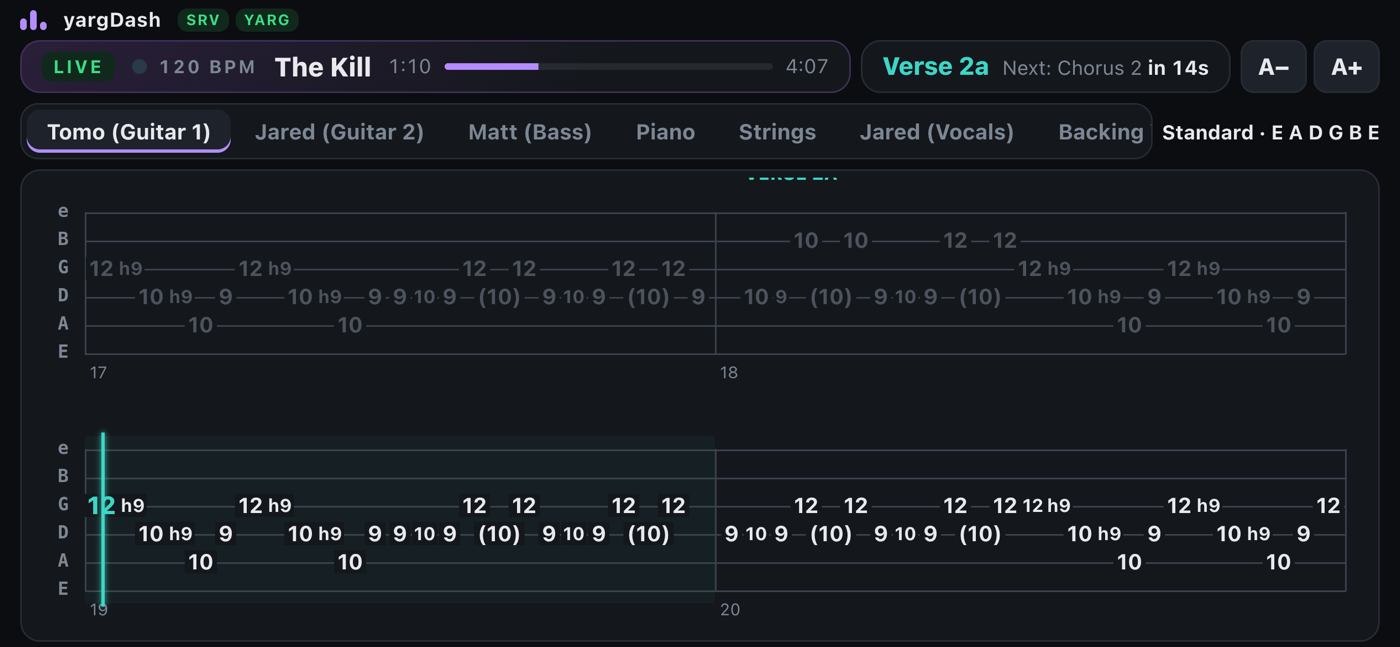
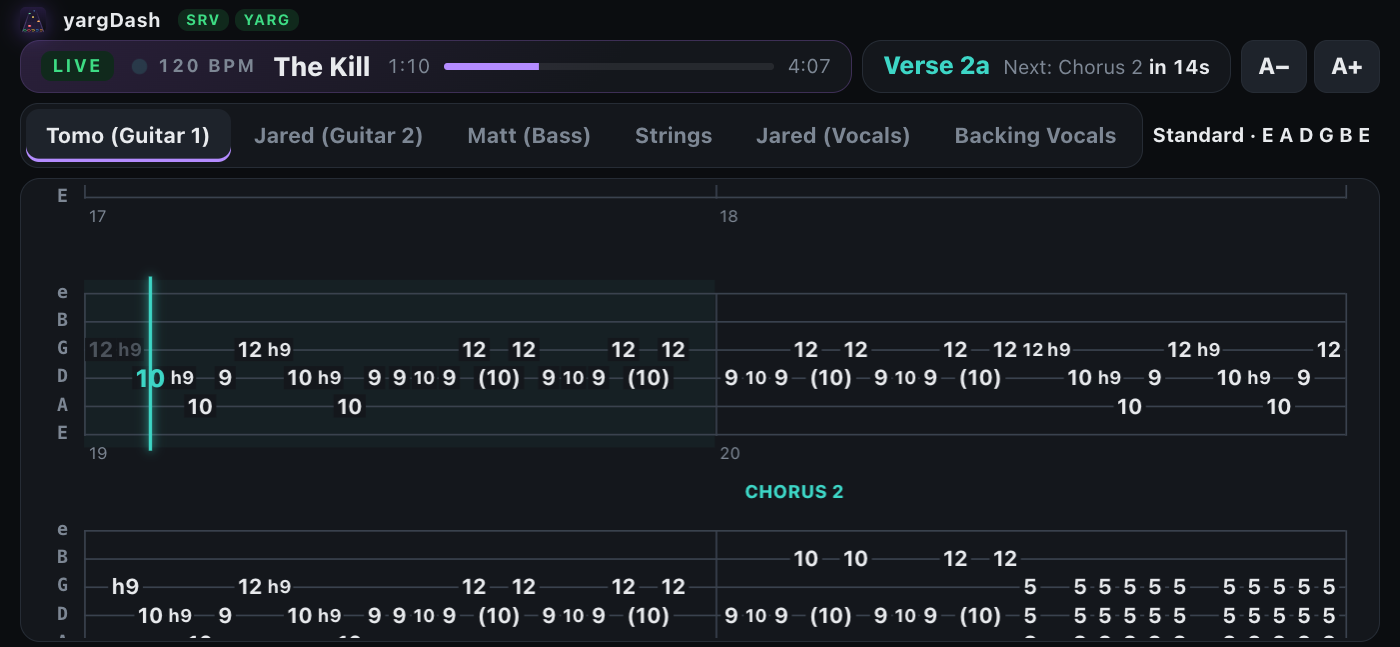
README: Keys screenshots (desktop and phone); retake the Tab ones
The Tab screenshots showed "Piano" as a guitar track; keyboard parts are in the Keys
view now. Same songs, moments and sizes as before.

diff --git a/README.md b/README.md
@@ -25,8 +25,10 @@ A live dashboard for a running [YARG](https://yarg.in) game. Run it on the compu
 | Lyrics with the pitch guide | Tab, lined up with the song |
 |---|---|
 | ![Lyrics view](docs/screenshots/lyrics.png) | ![Tab view](docs/screenshots/tab.png) |
-| **Click for the drummer** | **Performer page on a phone** |
-| ![Click view](docs/screenshots/click.png) | ![Tab performer page on a phone in landscape](docs/screenshots/phone-tab-landscape.png) |
+| **Keys: the part falling onto piano keys** | **Click for the drummer** |
+| ![Keys view: Rosanna's Pro Keys falling onto the keys, with note names and the Pro Keys window](docs/screenshots/keys.png) | ![Click view](docs/screenshots/click.png) |
+| **Tab performer page on a phone** | **Keys performer page on a phone** |
+| ![Tab performer page on a phone in landscape](docs/screenshots/phone-tab-landscape.png) | ![Keys performer page on a phone in landscape: both hands lit, with the keyboard parts to pick from](docs/screenshots/phone-keys-landscape.png) |
 
 ## 🎛 Real amps and mics too? Meet Live Console
 
